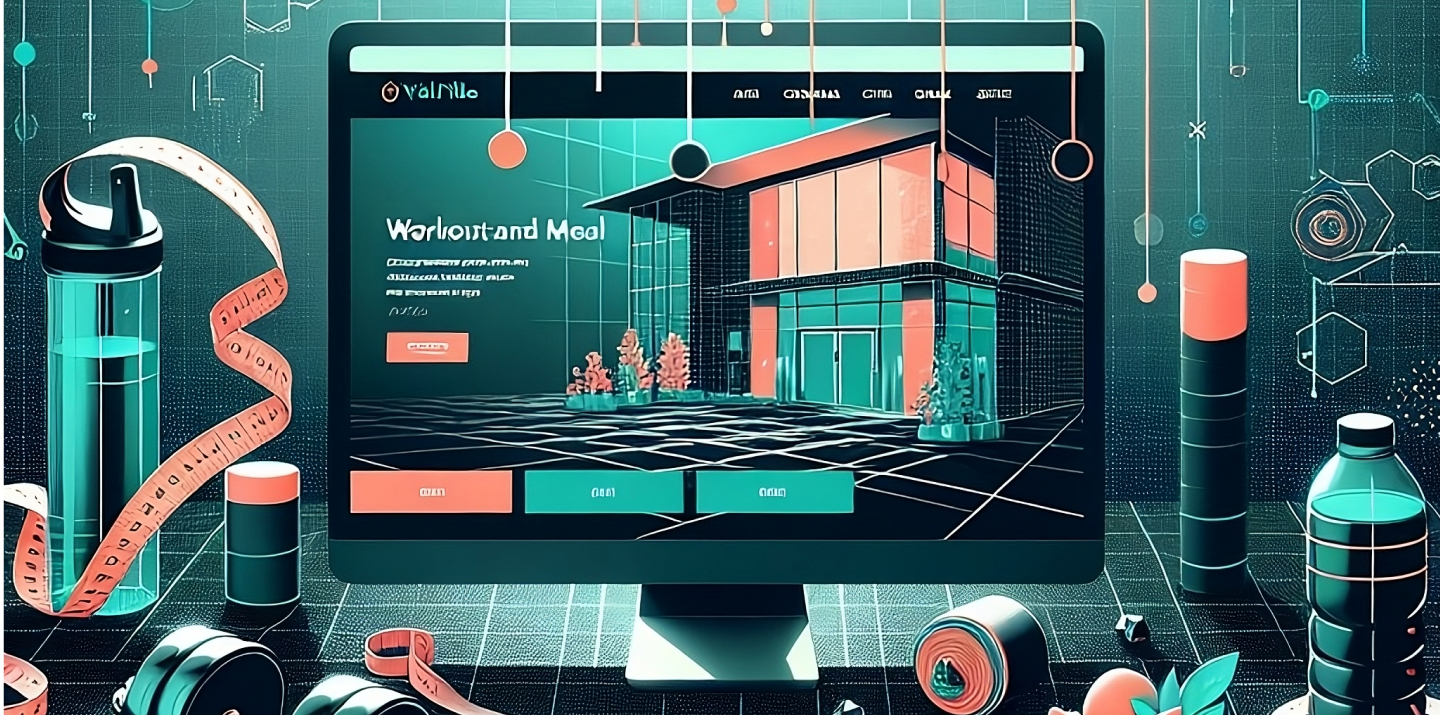
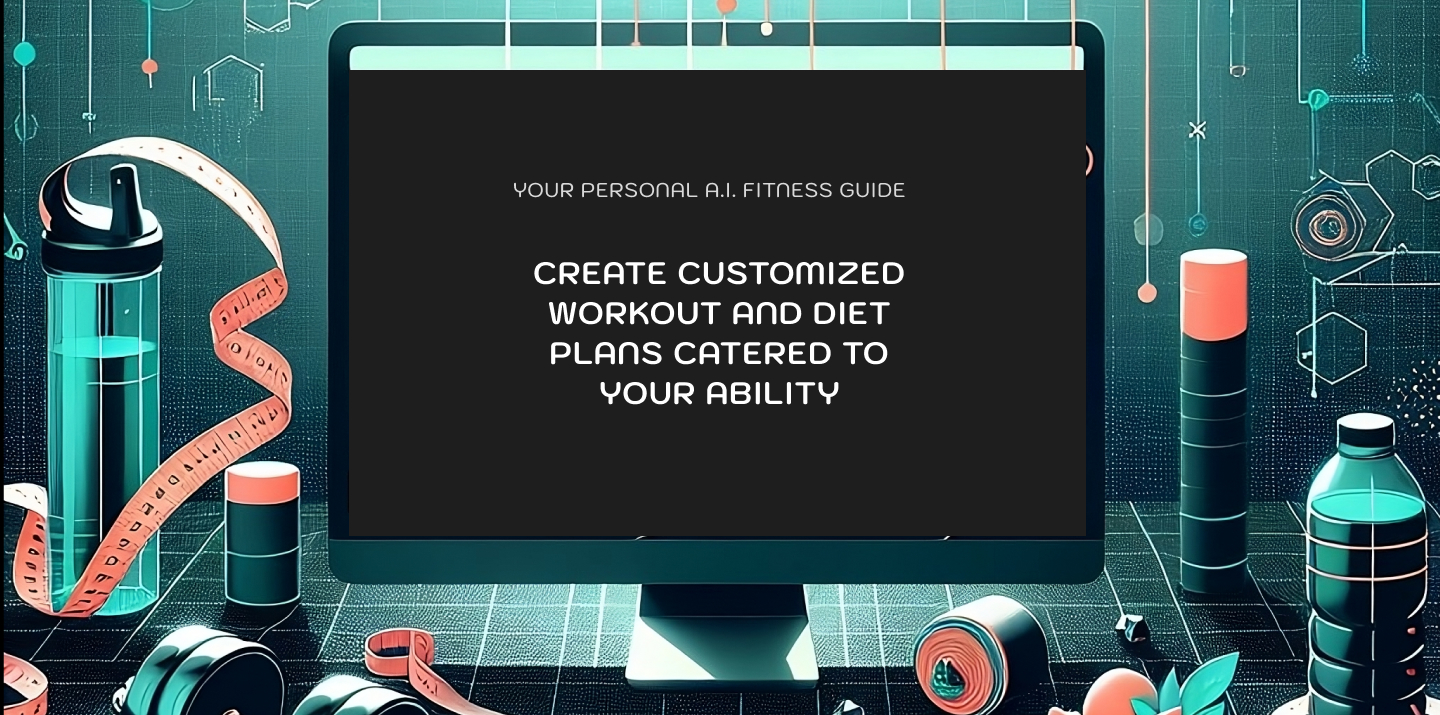
Slight changes to the navbar

diff --git a/src/components/navbar.jsx b/src/components/navbar.jsx
@@ -11,10 +11,10 @@ export default function Anav(props) {
 
   return (
     <div
-      className={`h-40 top-0 px-30 p-4 justify-between lg:flex ${isOpen ? "" : ""}`}
+      className={`h-40 top-0 px-[110px] p-4 justify-between lg:flex ${isOpen ? "" : ""}`}
     >
       <div className="flex space-x-3">
-        <img src="logo.jpg" alt="Vital Vibe" />
+        <img src="logo.jpg" alt="Vital Vibe"/>
         <h1 className="text-[#FF7F50] font-kod text-4xl m-10">
           VITAL <span className="text-[#74F0ED]">VIBE</span>
         </h1>
@@ -28,15 +28,15 @@ export default function Anav(props) {
         {props.about && (
           <div className="gradient-border">
             <li className="nav-item">
-              <Link to="/about">About Us</Link>
+              <Link to="/about" className="mx-2.5 text-md">About Us</Link>
             </li>
           </div>
         )}
 
         {props.home && (
           <div className="gradient-border">
-            <li className="nav-item">
-              <Link to="/home">Home</Link>
+            <li className="nav-item ">
+              <Link to="/home" className="mx-7">Home</Link>
             </li>
           </div>
         )}
@@ -49,7 +49,7 @@ export default function Anav(props) {
         )}
         <div className="gradient-border">
           <li className="nav-item">
-            <ScrollLink to="contact" activeClass="active" smooth={true}>
+            <ScrollLink to="contact" activeClass="active" smooth={true} className="mx-0.5">
               Contact Us
             </ScrollLink>
           </li>

diff --git a/src/components/homepage.jsx b/src/components/homepage.jsx
@@ -4,17 +4,17 @@ export default function HomePage() {
     return (
         <div>
             <Navbar home={false} about={true} plan={true} />
-            <div className="relative hidden">
-                <img src="home background.jpg" alt="Home" className="w-full" />
-                <img src="textbox.jpg" alt="Home" className="absolute top-20 left-[364px]" />
-                <p className="text-white font-kod font-medium absolute top-48 left-[535px] text-xl">YOUR PERSONLIZED A.I. FITNESS GUIDE</p>
-                <div className="px-[529px] absolute top-60">
-                    <h1 className="text-white font-kod font-bold text-4xl">CREATE CUSTOMIZED WORKOUT AND DIET PLANS CATERED TO YOUR ABILITY</h1>
+            <img src="home background.jpg" alt="Home Background" className="w-full" />
+            <div className="relative space-y-16">
+                <h1 className="text-[#74F0ED] font-kod px-[370px] text-[30px]">CUSTOMIZED PLAN CATERED TO YOUR GOALS</h1>
+                <div className="relative flex justify-between px-60">
+                    <img src="muscle gain.jpg" alt="Muscle gain" />
+                    <img src="weight loss.jpg" alt="Weight loss" />
+                    <img src="strength.jpg" alt="Strength" />
                 </div>
-            </div>
-            <div className="relative hidden">
-                <img src="muscle gain.jpg" alt="Muscle gain" />
             </div>
         </div>
     );
 }
+
+

diff --git a/src/index.css b/src/index.css
@@ -7,16 +7,16 @@
         @apply border border-white;
     }
     .nav-item{
-        @apply text-white font-kod  bg-black rounded-sm p-3;
+        @apply text-white font-kod text-lg  bg-black rounded-3xl p-3  ;
     }
 }
 
 .gradient-border {
-    padding: 5px;
-    width: max-content;
+    padding: 4px;
+    width: 140px;
     height: max-content;
     background-image: linear-gradient(to right, #74F0ED, #FF7F50);
-    border-radius: 5px;
+    border-radius: 40px;
     margin: auto;
     margin-bottom: 20px;
   }
